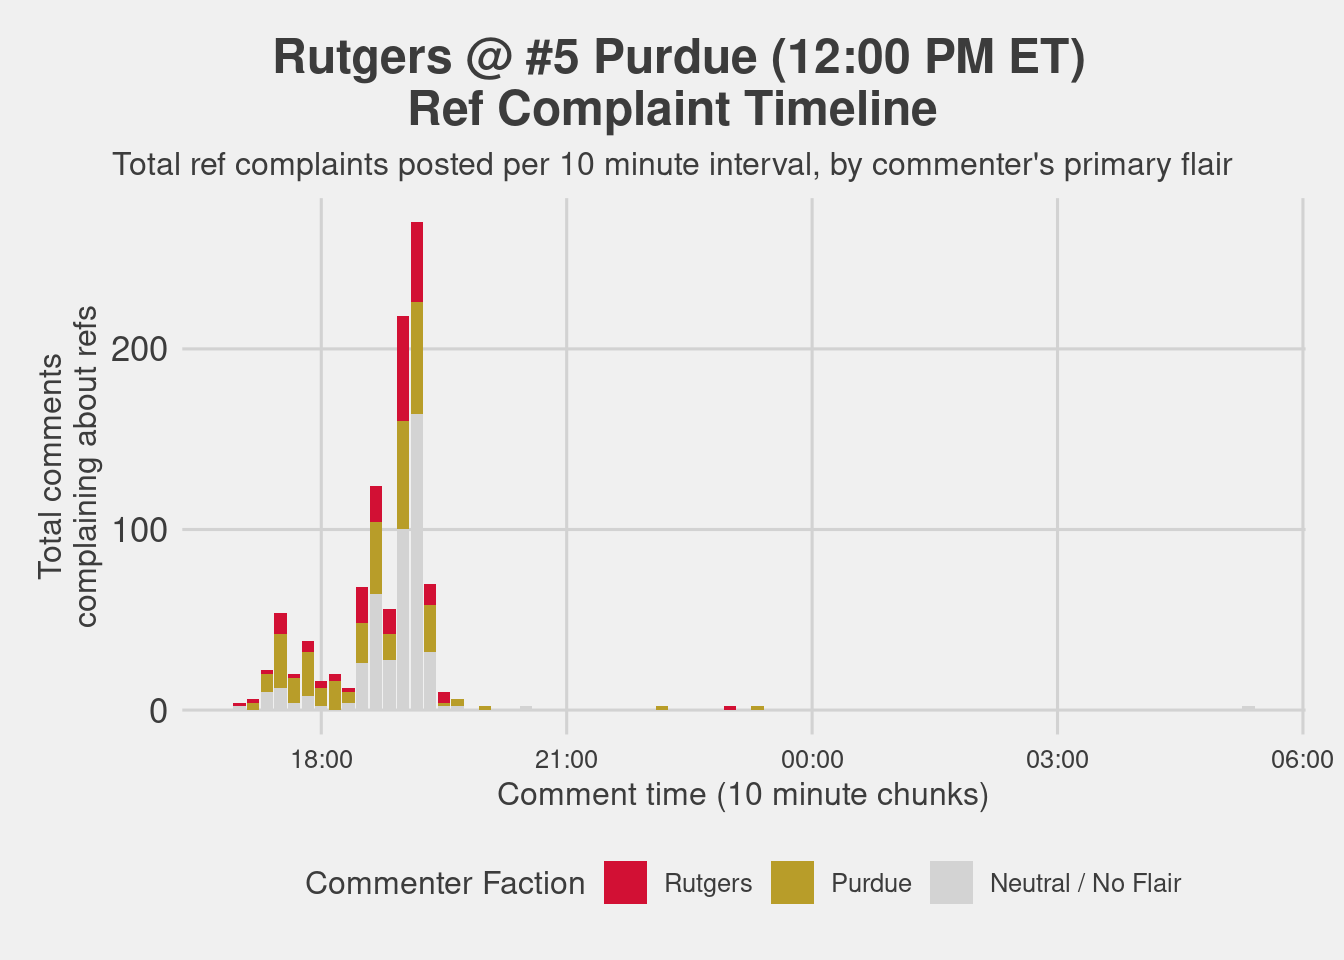
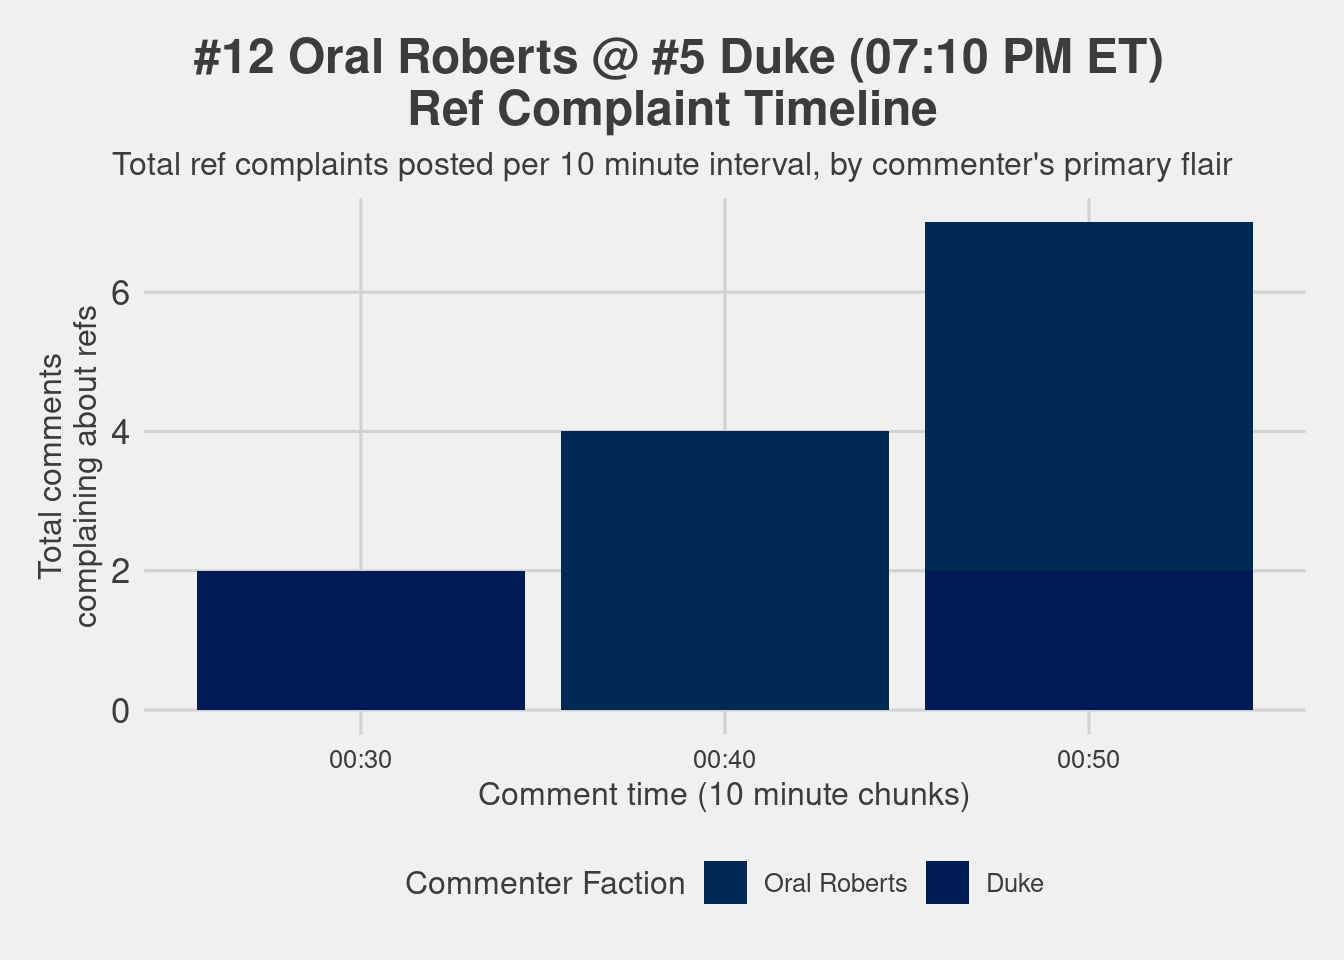
Minor changes, read the diff lol

diff --git a/inst/reports/cbb/game-thread-summary-cbb.html b/inst/reports/cbb/game-thread-summary-cbb.html
@@ -74,20 +74,20 @@ h1 {
 }
 </style>
 </div>
-<section id="rutgers-5-purdue-1200-pm-et" class="level1">
-<h1>Rutgers @ #5 Purdue (12:00 PM ET)</h1>
+<section id="oral-roberts-5-duke-0710-pm-et" class="level1">
+<h1>#12 Oral Roberts @ #5 Duke (07:10 PM ET)</h1>
 <hr>
 <section id="summary-statistics" class="level2">
 <h2 class="anchored" data-anchor-id="summary-statistics">📈 Summary Statistics</h2>
-<!-- -   **Game Start Time:** 2023-03-10 17:00:00, 2023-01-03 (UTC) -->
+<!-- -   **Game Start Time:** 2023-03-16 23:10:00 (UTC) -->
 <ul>
-<li><p><strong>Total Comments at time of data collection:</strong> 9,622</p></li>
-<li><p><strong>Most Common Primary Flair:</strong> Purdue Boilermakers <img src="https://a.espncdn.com/i/teamlogos/ncaa/500/2509.png" class="img-fluid" style="height: 25px; width: 25px;"> (4,172 comments)</p></li>
+<li><p><strong>Total Comments at time of data collection:</strong> 1,714</p></li>
+<li><p><strong>Most Common Primary Flair:</strong> Duke Blue Devils <img src="https://a.espncdn.com/i/teamlogos/ncaa/500/150.png" class="img-fluid" style="height: 25px; width: 25px;"> (506 comments)</p></li>
 <li><p><strong>Total Comments from:</strong></p>
 <ul>
-<li><p><strong>Neutral / No Flairs:</strong> 3,806 (39.56%)</p></li>
-<li><p><strong>Purdue flairs:</strong> <img src="https://a.espncdn.com/i/teamlogos/ncaa/500/2509.png" class="img-fluid" style="height: 25px; width: 25px;"> 4,172 (43.36%)</p></li>
-<li><p><strong>Rutgers flairs:</strong> <img src="https://a.espncdn.com/i/teamlogos/ncaa/500/164.png" class="img-fluid" style="height: 25px; width: 25px;"> 1,644 (17.09%)</p></li>
+<li><p><strong>Neutral / No Flairs:</strong> 1,204 (70.25%)</p></li>
+<li><p><strong>Duke flairs:</strong> <img src="https://a.espncdn.com/i/teamlogos/ncaa/500/150.png" class="img-fluid" style="height: 25px; width: 25px;"> 508 (29.64%)</p></li>
+<li><p><strong>Oral Roberts flairs:</strong> <img src="https://a.espncdn.com/i/teamlogos/ncaa/500/198.png" class="img-fluid" style="height: 25px; width: 25px;"> 2 (0.12%)</p></li>
 </ul></li>
 </ul>
 </section>
@@ -106,8 +106,8 @@ h1 {
 <section id="referee-complaint-analysis" class="level2">
 <h2 class="anchored" data-anchor-id="referee-complaint-analysis">🤡 Referee Complaint Analysis</h2>
 <ul>
-<li><p><strong>Total Complaints:</strong> 1,026 (11% of all comments) – RATING: [Extreme]</p></li>
-<li><p><strong>Top Complainers:</strong> Purdue Boilermakers <img src="https://a.espncdn.com/i/teamlogos/ncaa/500/2509.png" class="img-fluid" style="height: 25px; width: 25px;"> (34.11% of all complaints and 3.64% of all comments)</p></li>
+<li><p><strong>Total Complaints:</strong> 19 (1% of all comments) – RATING: [Clear]</p></li>
+<li><p><strong>Top Complainers:</strong> Duke Blue Devils <img src="https://a.espncdn.com/i/teamlogos/ncaa/500/150.png" class="img-fluid" style="height: 25px; width: 25px;"> (68.42% of all complaints and 0.76% of all comments)</p></li>
 </ul>
 <div class="cell" data-layout-align="center">
 <div class="cell-output-display">
